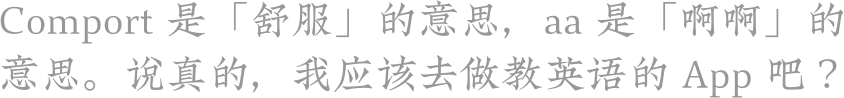
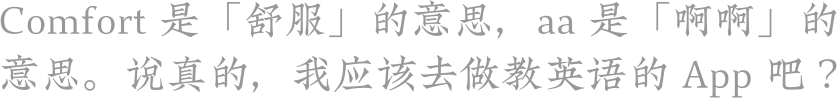
docs: ✏ update content to 4.7

diff --git a/src/data/dayInfo.ts b/src/data/dayInfo.ts
@@ -78,9 +78,7 @@ export default `
 3.14 | JAF Domus Titling | Domus Titling | 在这个因圆周率得名的 Pi Day（因为Pi 的前几位是 3.14），当然要选一个字腔和笔画端头都圆得不能更圆的字体啦！ | |
 3.15 | Calibri | Calibri | 巴基斯坦前总理在接受法院调查时#提交了一份声称签署于 2006 年的文件，却因为里面用的是直到 2007 年才开放商用的 Calibri 字体而露馅。 | 但我觉得他也可能是被冤枉的，比如他可能是穿越过来的…… |
 3.16 | 站酷庆科黄油体 | ZCOOLQingKeHuangYou-Regular.ttf | 线条刚硬却有带着一些圆角，恰似黄油软糯的质地吧！ | 这款包含了九千多个汉字的字体，由设计师郑庆科在站酷和 Google Fonts 发布免费商用版权。 |
--->
-3.17 | Comfortaa | Comfortaa-Regular.ttf | 舒服啊啊…… | Comport 是「舒服」的意思，aa 是「啊啊」的意思。说真的，我应该去做教英语的 App 吧？ |
-<!--
+3.17 | Comfortaa | Comfortaa-Regular.ttf | 舒服啊啊…… | Comfort 是「舒服」的意思，aa 是「啊啊」的意思。说真的，我应该去做教英语的 App 吧？ |
 3.18 | Libre Barcode 39 Text | LibreBarcode39Text-Regular.ttf | 这是一款自带条形码的字体…… | |
 3.19 | Srisakdi | Srisakdi-Regular.ttf | 这款字体的设计者是一个泰国人。字母中的装饰性元素很大程度上受到了泰文的启发。 | |
 3.20 | Crimson Text | CrimsonText-Regular.ttf | 有时候我们选择一种字体是为了让字体的特色尽可能弱化，而让文字内容得以彰显。 | 这是一款专为印刷书籍设计的字体。 |
@@ -94,6 +92,14 @@ export default `
 3.28 | Whitman | Whitman | 优雅的衬线体，搭配上富有诗意的名字，一看就是为印刷品设计的字体。 | 沃尔特·惠特曼是美国著名诗人、散文家。 |
 3.29 | Patrick Hand | PatrickHand-Regular.ttf | 顾名思义，这是 Patrick「写」出来的一款字体。 | 到底是字写的好看而成为了字体设计师，还是做字体设计让自己的字也变好看了呢？ |
 3.30 | Liquorstore 3D | Liquorstore 3D | 今天是智利的品酒节。不妨暂时忘了繁忙的工作，和我们一起来小酌一杯吧？ | Liquorstore 意为卖酒的店，是不是看起来特别像酒店的木质招牌呢？ |
+3.31 | Cuisine | CuisineOT | Cuisine 是烹饪的意思，这个字体也很容易让人联想到咖啡或者面包的品牌。 ||
+4.1 | Schoolbell | Schoolbell-Regular.ttf | 嘿！张老师叫你去办公室！ | 已经好多年愚人节没被耍了，突然有点怀念起学生时代来…… |
+4.2 | Willow | Willow Std | 昔我往矣，杨柳依依；#今我来思，雨雪霏霏。| Willow 是柳树的意思，和这款字体瘦长的形象呼应。|
+4.3 | Ohno Blazeface | Ohno Blazeface | 欧，不！又长胖了…… |
+4.4 | Asap | Asap-Regular.ttf | 设计师将这款字体与斜体、粗体、粗斜体设计为同样宽度。这样，当在屏幕阅读时切换字形，将不会影响页面的排版。不得不说，真是一种贴心的设计啊！ | ASAP（As Soon As Possible）是尽快的意思。|
+4.5 | Turnip | Turnip | 设计者有意将这款字体设计得有些粗糙，甚至名字也起得非常接地气。 | Turnip 是萝卜的意思。 |
+4.6 | Poiret One | PoiretOne-Regular.ttf | 极细的线条，搭配饱满圆润的字腔，优雅是逃不脱的。||
+4.7 | Liana | Liana | 读外国名著的时候，我惊讶于为什么很多小说以主人公的名字命名。可能对于西方人而言，名字背后的典故带来了比我们能理解到的更多的信息。比如这款字体，设计师通过 Liana 这个名字，表现出一个优雅而充满学识的女性形象。|
 2.1 | Vectora | Vectora LT Pro 55 Roman | Vectora的小写字母比大写字母小不了多少，使得其非常适合在小字号下使用 |  |
 2.2 | ITC American Typewriter | itc-american-typewriter.ttf | 「一锅火热的爱」 | 经典的「I ❤ NY」用的就是 American Typewriter。 |
 2.6 | JAF Domus Titling | Domus Titling Extrabold | 圆润的末端和字腔增加了几分卡通的色彩，字母 0 有没有长得像一个甜甜圈？反正我又饿了… |  |
@@ -106,6 +112,8 @@ export default `
 2.28 | Blitz | Wiescher Design - Blitz-Thin.otf | 头重脚轻往往容易给人一种摇摇欲坠的感觉，在字体里进行这样的尝试却有意外的动感收获 |  |
 4.23 | Bookmania | Bookmania | 今天是「世界图书与版权日」，让我们为图书狂欢吧！ | 字体名称中的 mania 是「狂热」的意思。|
 5.06 | Lato | | Lato在波兰语中的含义是「夏天」||
+6.1 | Mati |||
 10.24 | Hack | 又一款专为代码编辑设计的字体 ||
+11.15 | Kepler | | | 开普勒于 1630 年 11 月 15 日逝世。|
 -->
 `;

diff --git a/src/utils/license.ts b/src/utils/license.ts
@@ -16,19 +16,19 @@ const license = [
         fonts: ['Trajan Pro 3', 'Baskerville PT', 'Source Han Serif', 'OCR B', 'P22 Underground', 'Eurostile',
             'Myriad', 'Neue Aachen', 'Utopia', 'Gastromond', 'LTC Broadway', 'DIN 1451 Pro', 'Big Caslon', 'Balloon URW',
             'Gill Sans Nova', 'Scriptorama Markdown JF', 'Matrix II', 'Volina', 'Oxtail', 'ITC Avant Garde Gothic',
-            'LTC Bodoni 175', 'Blenny Black', 'Rad', 'Variex', 'PMN Caecilia', 'PMN Caecilia Sans', 'New Zen', 'Source Han Sans', 'Study', 'Remedy', 'Anonymous', 'Lo-Res', 'Voltage', 'OCR A', 'Bello', 'Bell Centennial', 'Axia Stencil Black', 'DINosaur', 'Eskorte Latin Extrabold Italic', 'Fairwater Sailor Serif Regular', 'JAF Domus Titling','Calibri', 'Liquorstore 3D', 'Whitman']
+            'LTC Bodoni 175', 'Blenny Black', 'Rad', 'Variex', 'PMN Caecilia', 'PMN Caecilia Sans', 'New Zen', 'Source Han Sans', 'Study', 'Remedy', 'Anonymous', 'Lo-Res', 'Voltage', 'OCR A', 'Bello', 'Bell Centennial', 'Axia Stencil Black', 'DINosaur', 'Eskorte Latin Extrabold Italic', 'Fairwater Sailor Serif Regular', 'JAF Domus Titling','Calibri', 'Liquorstore 3D', 'Whitman', 'Cuisine', 'Willow', 'Ohno Blazeface', 'Turnip', 'Liana']
     },
     {
         id: 'apache',
         name: 'Apache License, Version 2.0',
-        fonts: ['Roboto', 'Open Sans','Just Another Hand','Luckiest Guy']
+        fonts: ['Roboto', 'Open Sans', 'Just Another Hand', 'Luckiest Guy', 'Schoolbell']
     },
     {
         id: 'open',
         name: 'SIL Open Font License',
         desc: '以下字体来自 Google Fonts，基于 SIL Open Font License。',
         fonts: ['Gloria Hallelujah', 'Bad Script', 'Merienda', 'Monoton', 'Dancing Script', 'Lobster', 'Vollkorn', 'Cookie',
-            'Tangerine','Alice','Cinzel','Average','Press Start 2P','Josefin Sans','Alike Angular','IM Fell DW Pica SC', '站酷庆科黄油体', 'Libre Barcode 39 Text', 'Srisakdi', 'Crimson Text', 'Bungee Shade', 'Over the Rainbow', 'Orbitron', 'Audiowide', 'Unica One', 'Major Mono Display', 'Bangers', 'Whitman', 'Comfortaa', 'Liquorstore 3D', 'Patrick Hand'],
+            'Tangerine','Alice','Cinzel','Average','Press Start 2P','Josefin Sans','Alike Angular','IM Fell DW Pica SC', '站酷庆科黄油体', 'Libre Barcode 39 Text', 'Srisakdi', 'Crimson Text', 'Bungee Shade', 'Over the Rainbow', 'Orbitron', 'Audiowide', 'Unica One', 'Major Mono Display', 'Bangers', 'Whitman', 'Comfortaa', 'Liquorstore 3D', 'Patrick Hand', 'Schoolbell', 'Asap', 'Poiret One'],
         detail: `
             SIL Open Font License
             PREAMBLE

diff --git a/src/utils/constants.ts b/src/utils/constants.ts
@@ -6,8 +6,8 @@ if (IS_DEBUG) {
     console.log('THIS IS IN DEBUG MODE.');
 }
 
-export const VERSION = '1.3.3';
-export const LAST_AVAILABLE_DATE = '2019-03-30';
+export const VERSION = '1.3.4';
+export const LAST_AVAILABLE_DATE = '2019-04-07';
 
 export const DPR = 2;
 export const IMAGE_DPR = 3;
